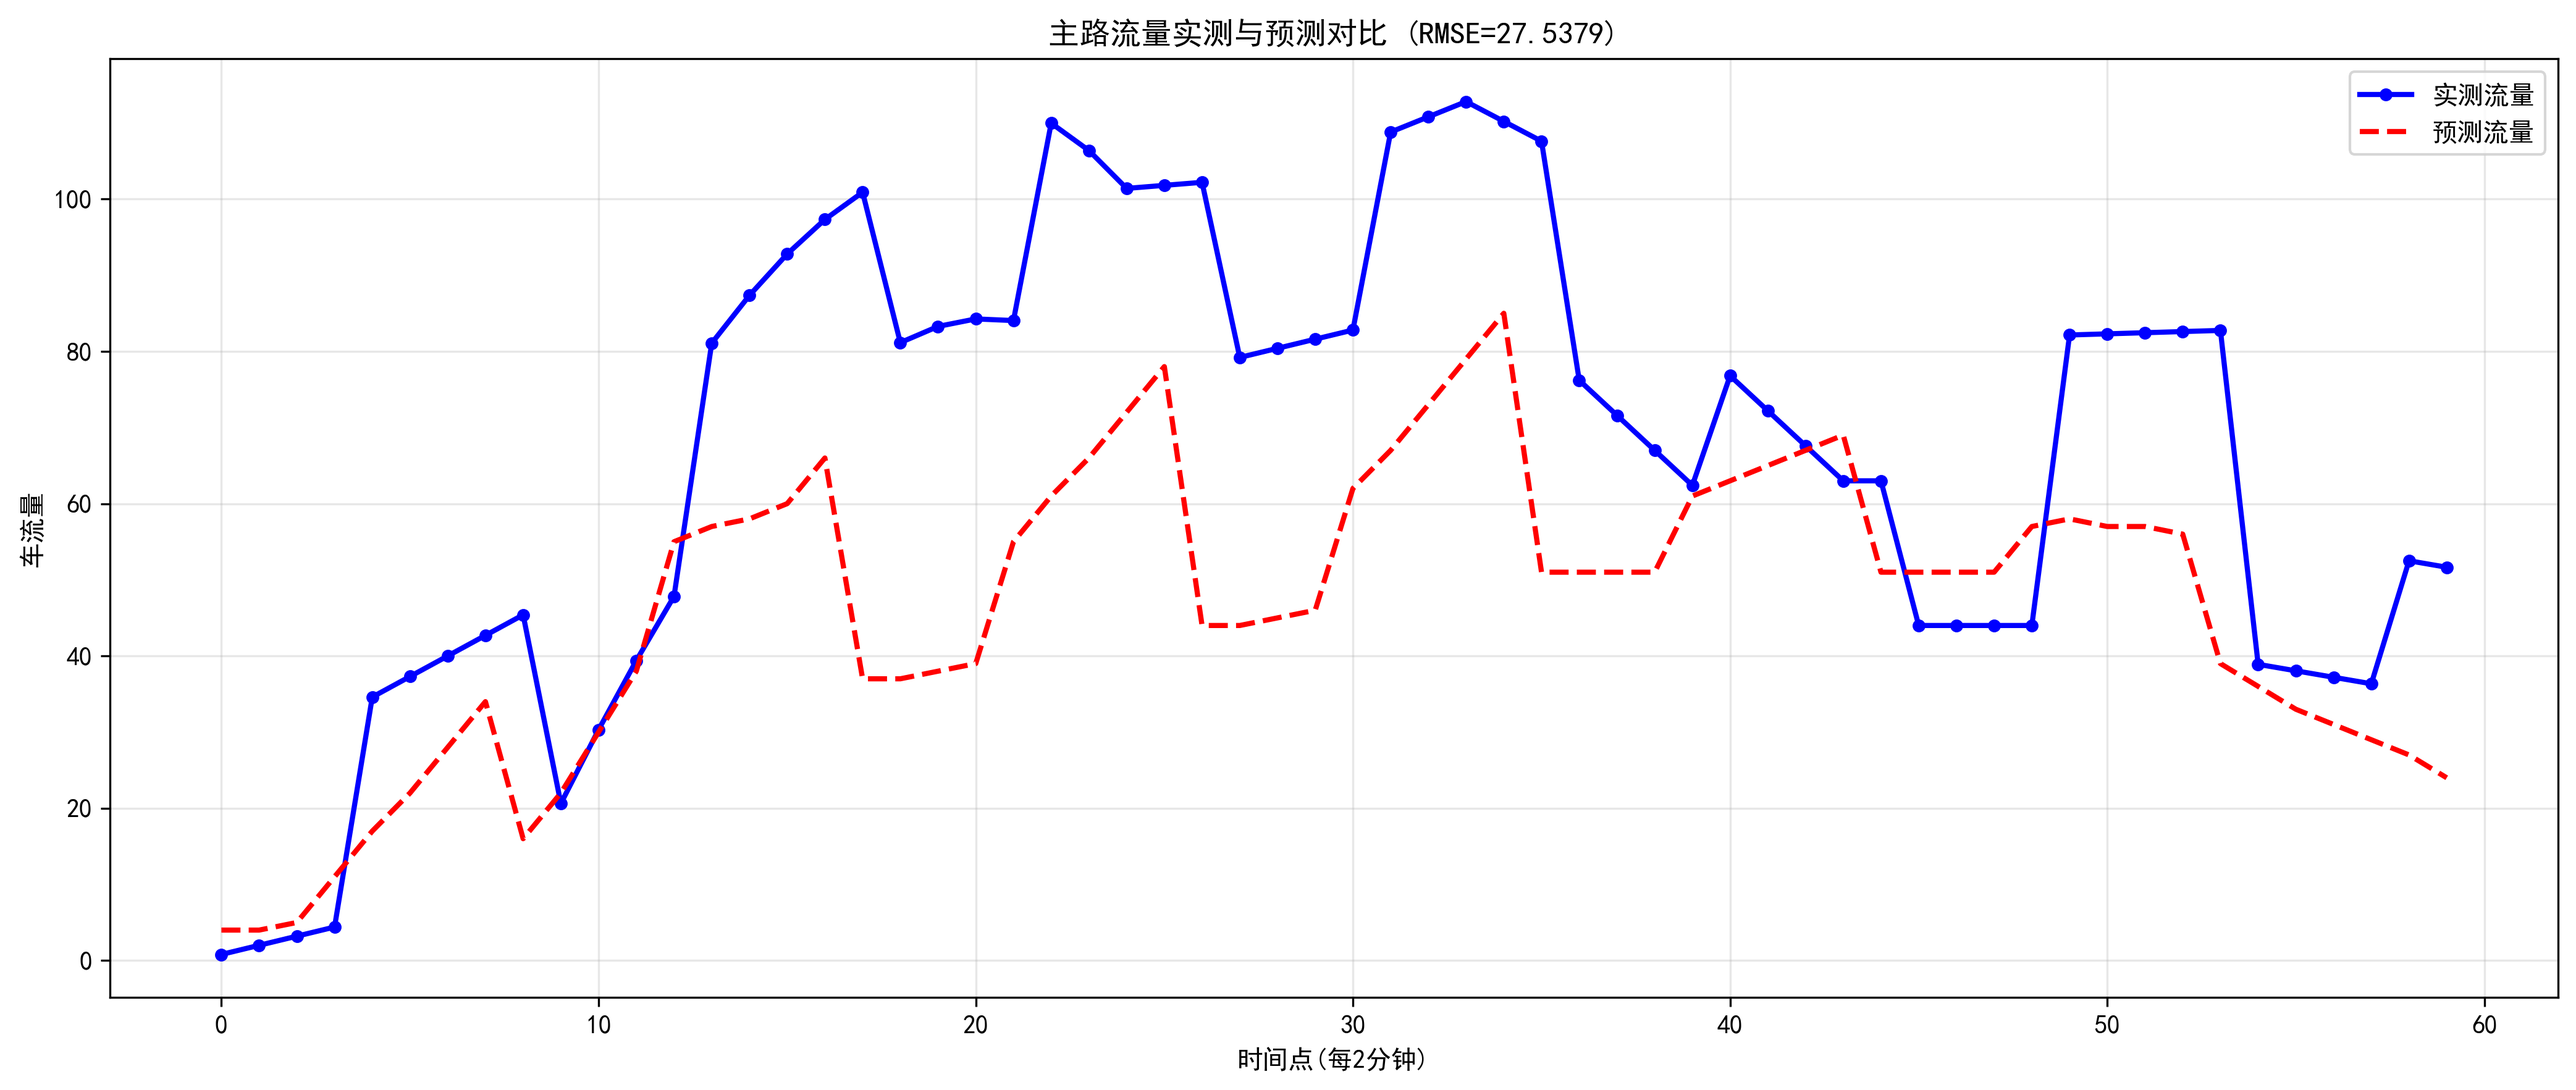
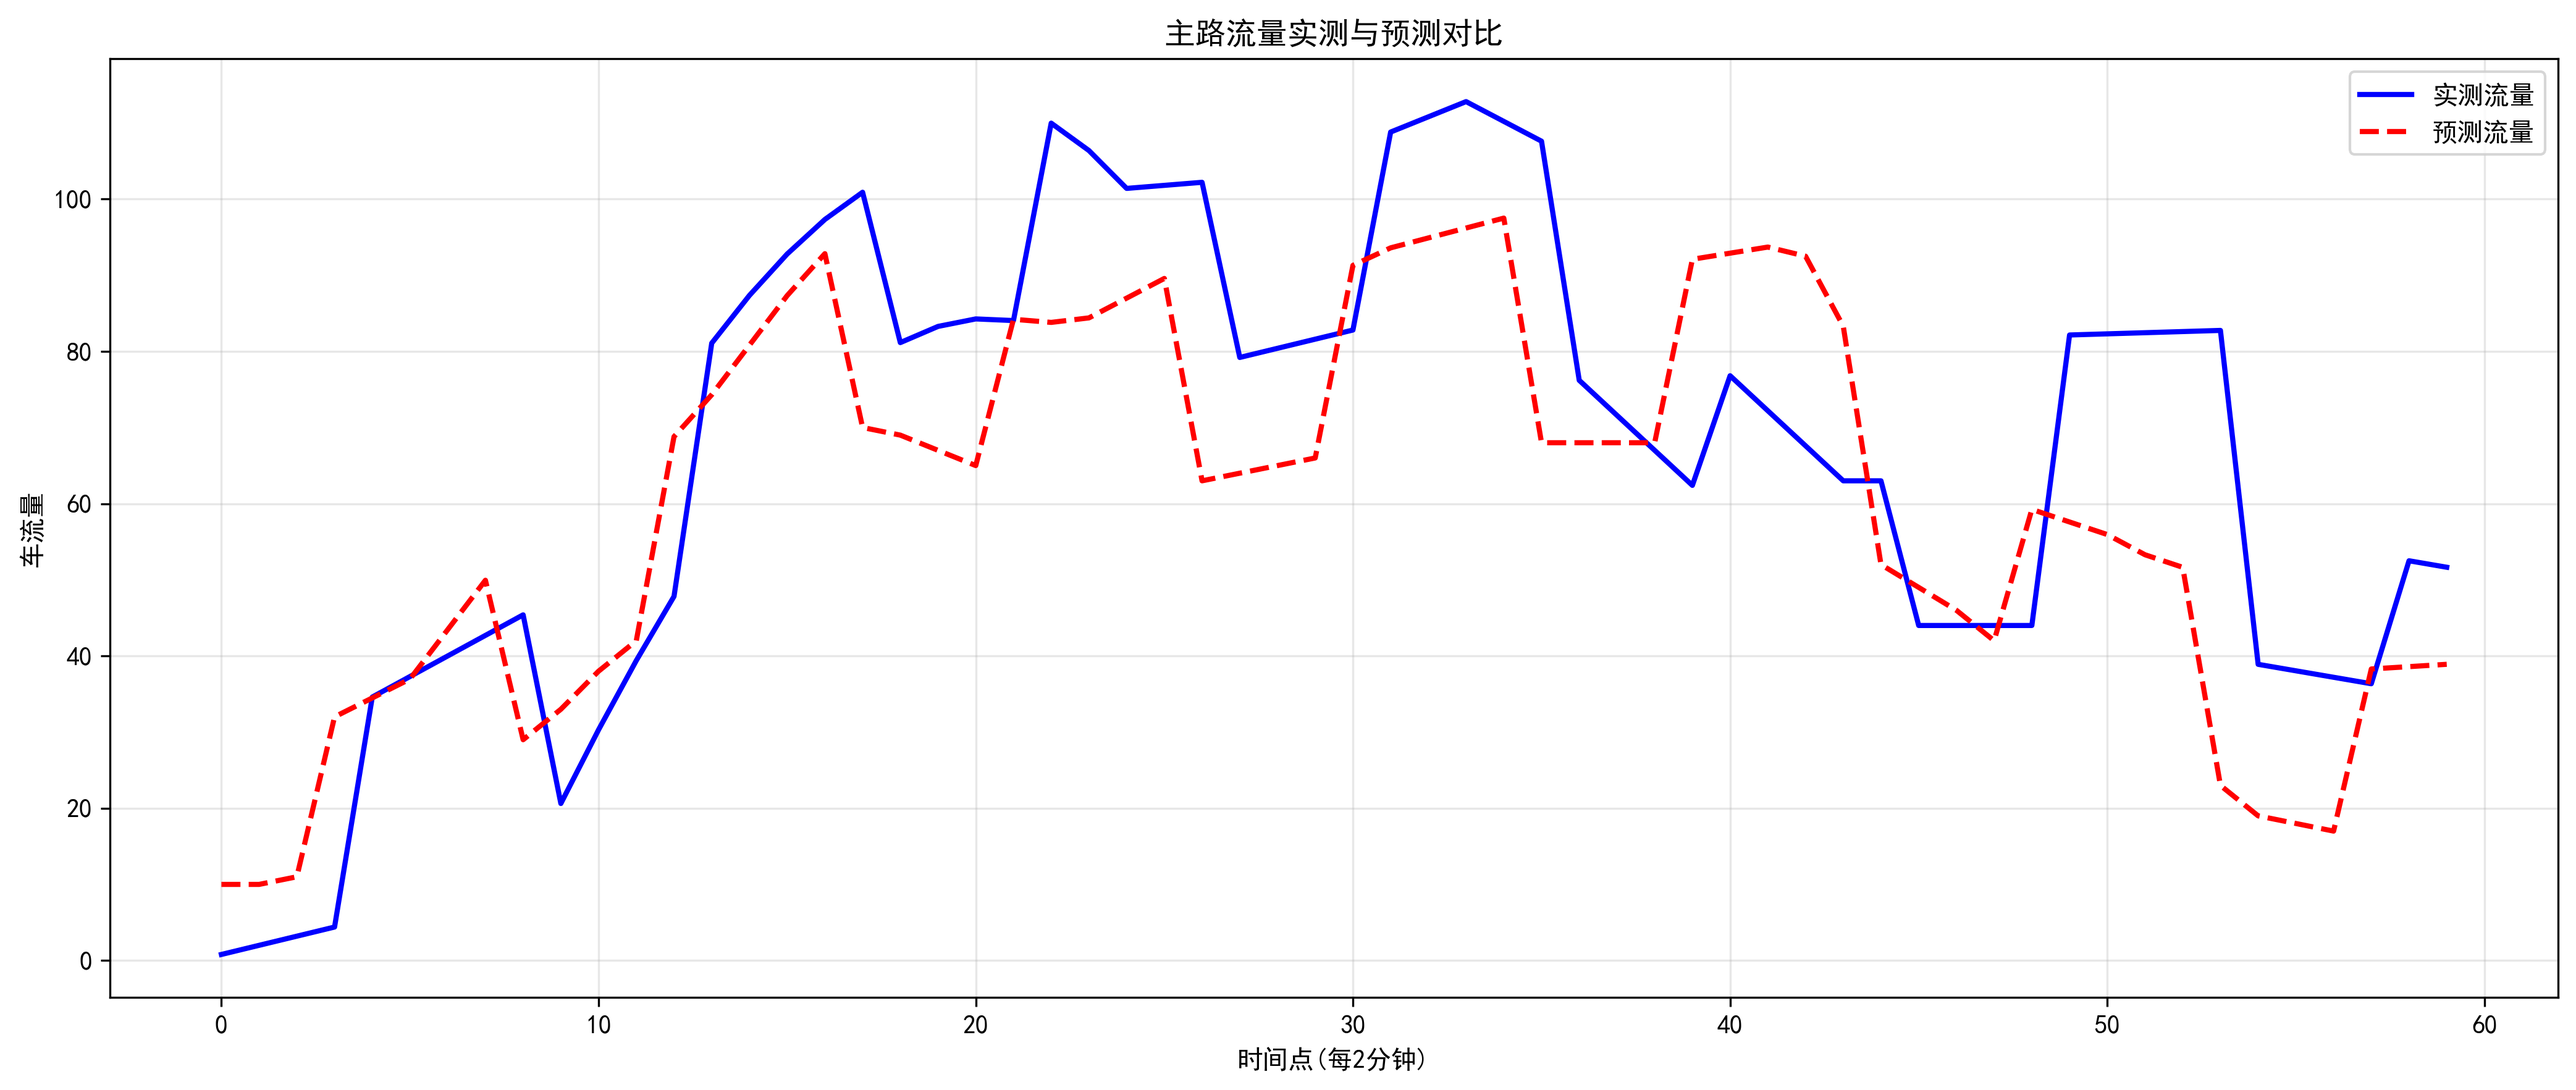
docs(51MCM): 更新交通流量分析报告
- 总体RMSE误差从27.5379降低到18.9382
- 更新各支路模型参数和流量函数表达式
- 调整绿灯周期的斜率和截距
- 修正关键时间点流量数据

diff --git a/51MCM/P3/交通流量分析报告.md b/51MCM/P3/交通流量分析报告.md
@@ -1,66 +1,61 @@
-# 交通流量分析报告 - 问题3
+# === 交通流量分析报告 ===
 
-## 一、模型误差评估
+## 【模型误差评估】
 
-总体RMSE误差: 27.5379
+总体RMSE误差: 18.9382
 
 各时间段误差:
 
 | 时间段 | RMSE误差 |
 |--------|----------|
-| 7:00-14:00 | 16.3178 |
-| 14:00-22:00 | 40.3639 |
-| 22:00-29:00 | 25.4690 |
-| 29:00-36:00 | 20.5747 |
+| 7:00-7:30 | 11.4076 |
+| 7:30-8:00 | 18.7636 |
+| 8:00-8:30 | 18.4108 |
+| 8:30-8:58 | 23.8155 |
 
-## 二、各支路模型参数
+## 【支路1模型参数】
 
-### 2.1 支路1模型参数
+增长阶段斜率: 3.5789
+初始值: 2.7228
+下降阶段斜率1: -2.9522
+稳定值: 28.7751
+下降阶段斜率2: -2.1304
+转折点: 4.4, 16.2, 21.7, 39.8
 
-- 增长阶段斜率: 6.6877
-- 初始值: 0.4262
-- 下降阶段斜率1: -3.9837
-- 中间值: 32.6687
-- 稳定值: 20.6687
-- 下降阶段斜率2: -0.0100
-- 转折点: 6.17, 10.99, 14.00, 45.85
+## 【支路2模型参数】
 
-### 2.2 支路2模型参数
+增长斜率: 0.9949
+截距: 10.2595
+稳定值: 40.0000
+下降斜率: -1.1532
+终值: 33.0643
+转折点: 29.9, 41.6
 
-- 增长斜率: 0.7707
-- 截距: 4.8343
-- 稳定值: 31.8091
-- 下降斜率: -0.7361
-- 终值: 31.8091
+## 【支路3模型参数】
 
-### 2.3 支路3模型参数
+绿灯周期1的斜率: 1.4855, 截距: 20.0000
+绿灯周期2的斜率: 1.5091, 截距: 21.7952
+绿灯周期3的斜率: 1.5911, 截距: 21.2132
+绿灯周期4的斜率: 1.3017, 截距: 24.2921
+绿灯周期5的斜率: 0.8016, 截距: 24.0928
+绿灯周期6的斜率: 1.3484, 截距: 20.2454
+绿灯周期7的斜率: 1.3060, 截距: 22.2915
 
-| 绿灯周期 | 斜率 | 截距 |
-|----------|------|------|
-| 周期1 | 5.0000 | 5.0000 |
-| 周期2 | 5.0000 | 10.0000 |
-| 周期3 | 5.0000 | 15.0000 |
-| 周期4 | 5.0000 | 15.0000 |
-| 周期5 | 2.0000 | 10.0000 |
+## 【支路1流量模型表达式】
 
-## 三、各支路流量函数表达式
+$f_1(t) = \begin{cases} 0, & t < 4.4 \\ 3.5789 \cdot (t-4.4) + 2.7228, & 4.4 \leq t < 16.2 \\ -2.9522 \cdot (t-16.2) + 45.0000, & 16.2 \leq t < 21.7 \\ 28.7751, & 21.7 \leq t < 39.8 \\ -2.1304 \cdot (t-39.8), & t \geq 39.8 \end{cases}$
 
-### 3.1 支路1流量模型
+## 【支路2流量模型表达式】
 
-$f_1(t) = \begin{cases} 0, & t < 6.17 \\ 6.6877 \cdot (t-6.17) + 0.4262, & 6.17 \leq t < 10.99 \\ -3.9837 \cdot (t-10.99) + 32.6687, & 10.99 \leq t < 14.00 \\ 20.6687, & 14.00 \leq t < 45.85 \\ -0.0100 \cdot (t-45.85), & t \geq 45.85 \end{cases}$
+$f_2(t) = \begin{cases} 0.9949 \cdot t + 10.2595, & t \leq 29.9 \\ 40.0000, & 29.9 < t \leq 41.6 \\ -1.1532 \cdot (t-41.6) + 33.0643, & t > 41.6 \end{cases}$
 
-### 3.2 支路2流量模型
+## 【支路3流量模型表达式】
 
-$f_2(t) = \begin{cases} 0.7707 \cdot t + 4.8343, & t \leq 35 \\ 31.8091, & 35 < t \leq 47 \\ -0.7361 \cdot (t-47) + 31.8091, & t > 47 \end{cases}$
+$f_3(t) = \begin{cases} 1.4855 \cdot (t-3) + 20.0000, & t \in [3, 8) \text{ 且为绿灯时段} \\ 1.5091 \cdot (t-12) + 21.7952, & t \in [12, 17) \text{ 且为绿灯时段} \\ 1.5911 \cdot (t-21) + 21.2132, & t \in [21, 26) \text{ 且为绿灯时段} \\ 1.3017 \cdot (t-30) + 24.2921, & t \in [30, 35) \text{ 且为绿灯时段} \\ 0.8016 \cdot (t-39) + 24.0928, & t \in [39, 44) \text{ 且为绿灯时段} \\ 1.3484 \cdot (t-48) + 20.2454, & t \in [48, 53) \text{ 且为绿灯时段} \\ 1.3060 \cdot (t-57) + 22.2915, & t \in [57, 62) \text{ 且为绿灯时段} \\ 0, & \text{其他时段（红灯）} \end{cases}$
 
-### 3.3 支路3流量模型
-
-$f_3(t) = \begin{cases} 5.0000 \cdot (t-3) + 5.0000, & t \in [3, 8) \text{ 且为绿灯时段 (7:06-7:16)} \\ 5.0000 \cdot (t-12) + 10.0000, & t \in [12, 17) \text{ 且为绿灯时段 (7:24-7:34)} \\ 5.0000 \cdot (t-21) + 15.0000, & t \in [21, 26) \text{ 且为绿灯时段 (7:42-7:52)} \\ 5.0000 \cdot (t-30) + 15.0000, & t \in [30, 35) \text{ 且为绿灯时段 (7:00-7:10)} \\ 2.0000 \cdot (t-39) + 10.0000, & t \in [39, 44) \text{ 且为绿灯时段 (7:18-7:28)} \\ 2.0000 \cdot (t-48) + 8.0000, & t \in [48, 53) \text{ 且为绿灯时段 (7:36-7:46)} \\ 0, & \text{其他时段（红灯）} \end{cases}$
-
-## 四、关键时间点流量
+## 【关键时间点流量】
 
 | 时间点 | 支路1 | 支路2 | 支路3 | 主路4(预测) | 主路4(实际) |
 |--------|-------|-------|-------|------------|------------|
-| 7:30 | 20.67 | 16.39 |  0.00 |    36.00 |    92.78 |
-| 8:30 | 20.67 | 31.81 |  0.00 |    51.00 |    44.00 |
-
+| 7:30 | 40.68 | 25.18 | 26.32 |    91.32 |    92.78 |
+| 8:30 | 17.64 | 29.10 |  0.00 |    46.00 |    44.00 |
